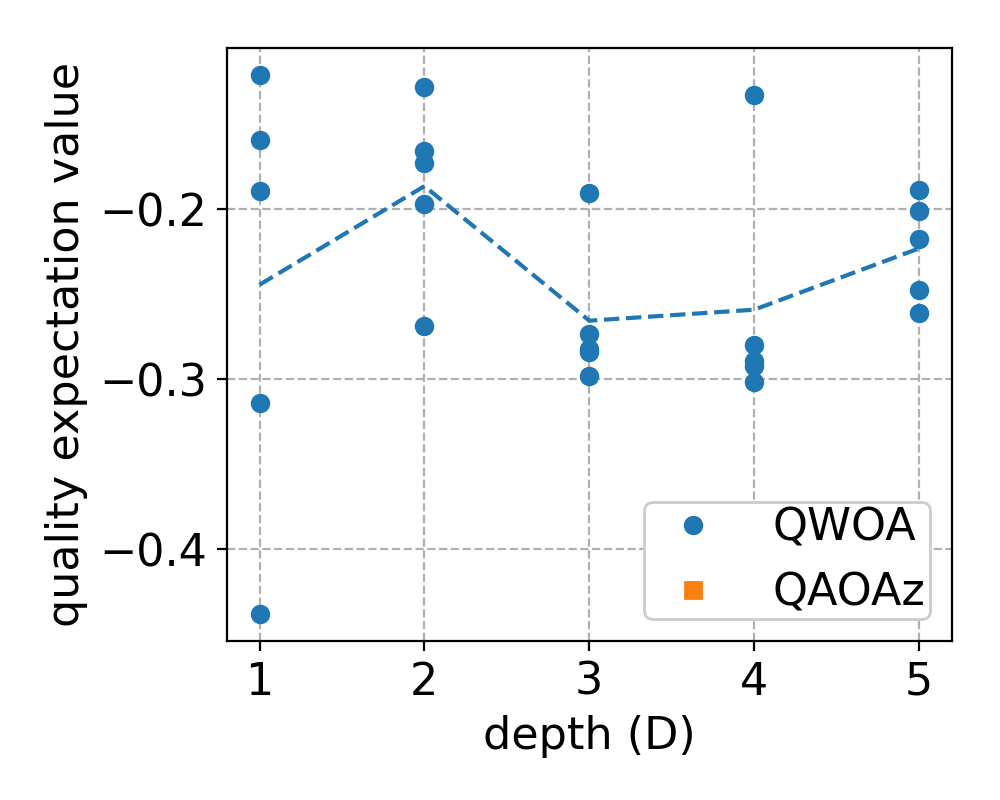
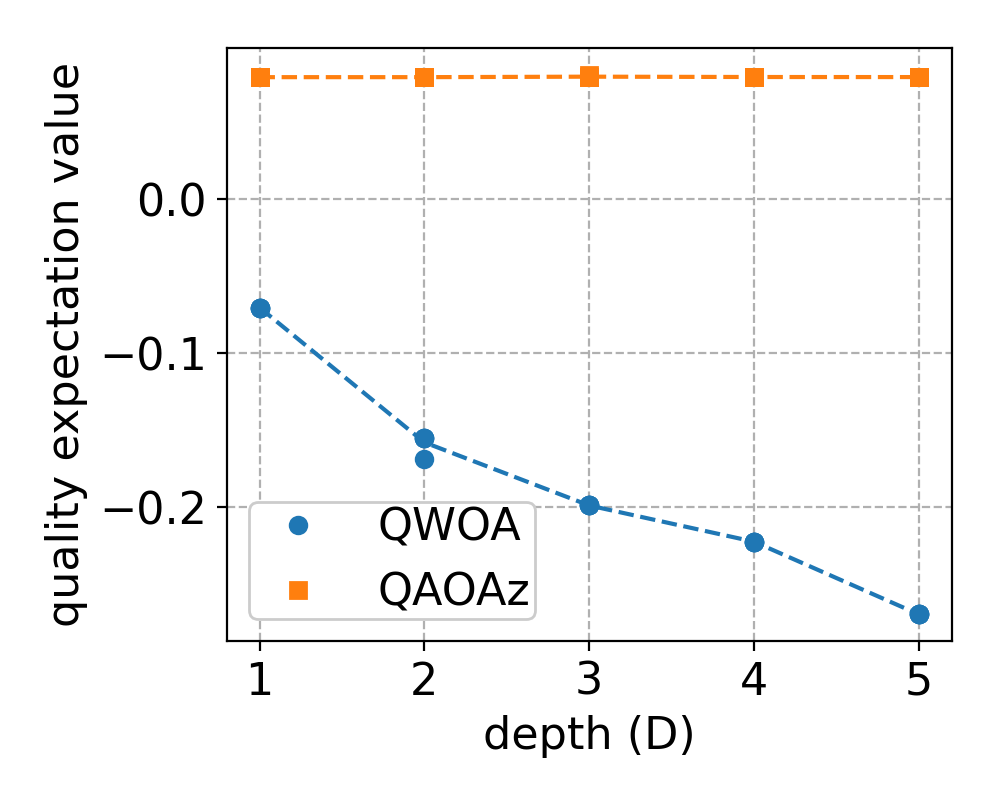
missing figures

diff --git a/docs/source/examples.rst b/docs/source/examples.rst
@@ -52,7 +52,7 @@ Here the QAOA is applied to the max-cut problem
 for the graph shown below. The predefined
 ``Ansatz`` subclass :class:`~quop_mpi.algorithm.combinatorial.qaoa` forms the basis of the simulation.
 
-.. figure:: _static/maxcut_graph.png
+.. figure:: _static/maxcut_solution.png
    :name: maxcut-graph
    :scale: 25%
    :align: center
